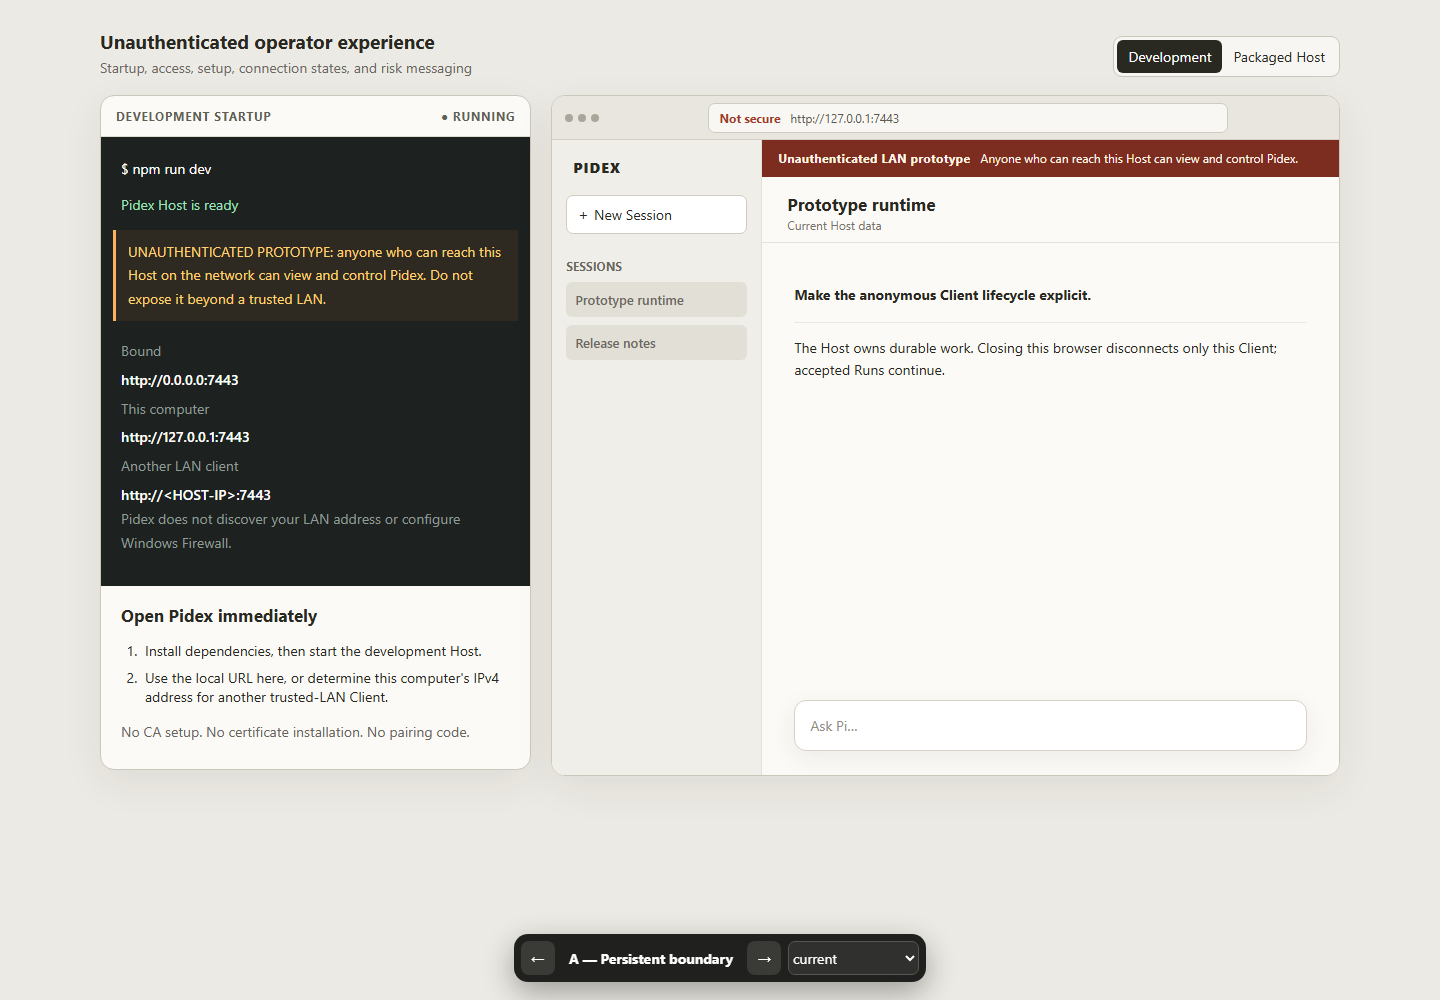
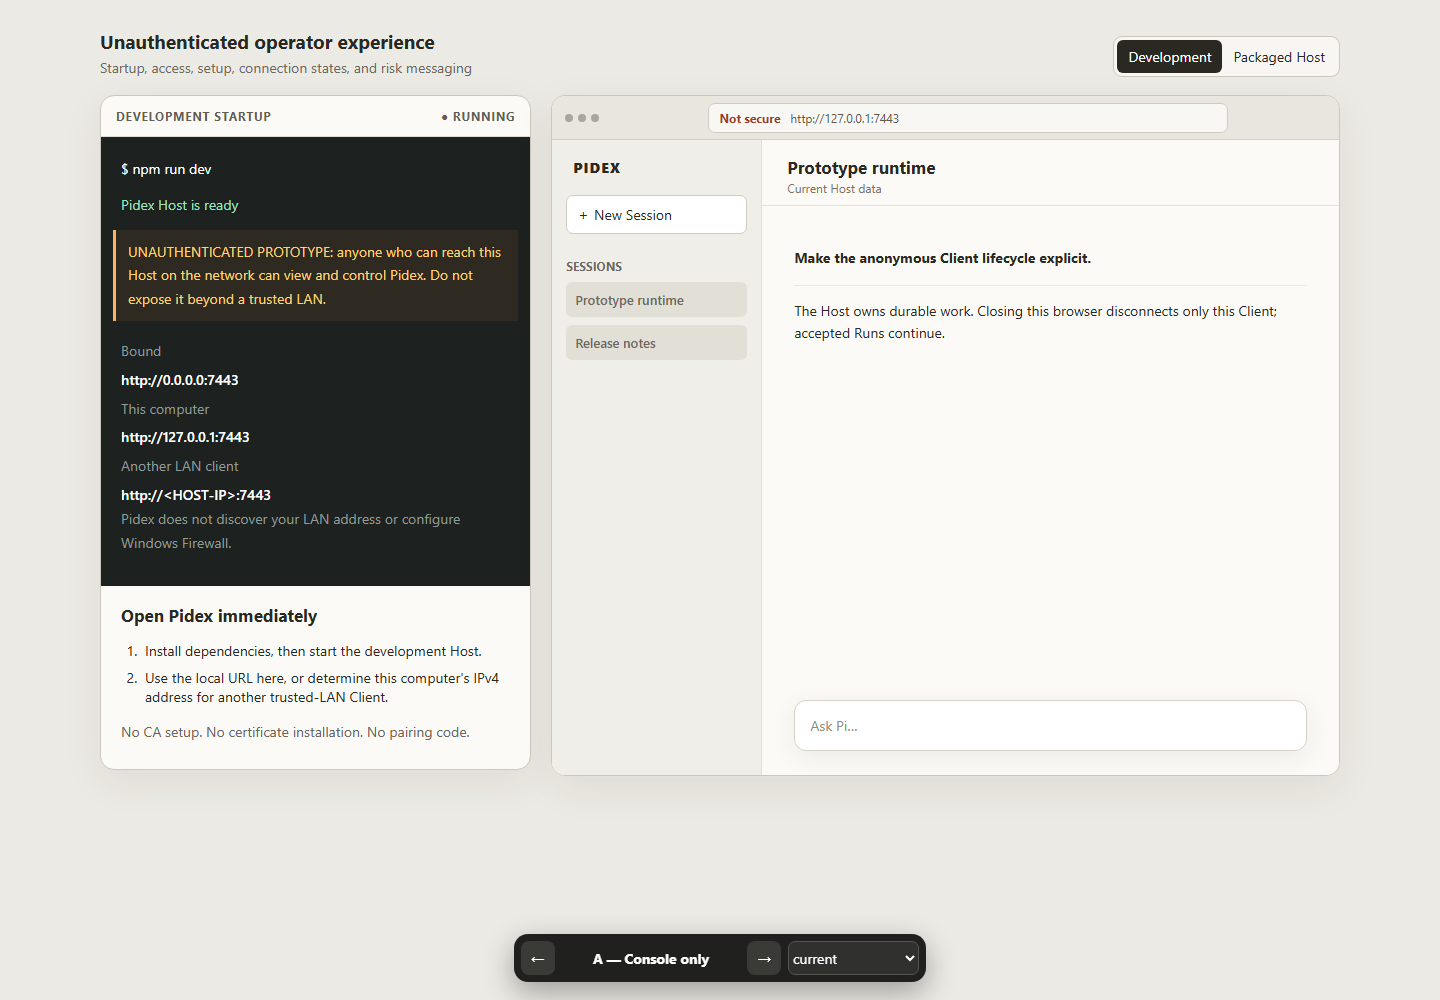
Select console-only operator warning

Changed region(s): [[0.5312, 0.124, 0.9375, 0.372], [0.4062, 0.93, 0.5, 0.961]]

diff --git a/.scratch/pidex-product-and-architecture/prototypes/unauthenticated-operator-experience/index.html b/.scratch/pidex-product-and-architecture/prototypes/unauthenticated-operator-experience/index.html
@@ -127,7 +127,7 @@
   <script>
     const warning = "UNAUTHENTICATED PROTOTYPE: anyone who can reach this Host on the network can view and control Pidex. Do not expose it beyond a trusted LAN.";
     const variants = {
-      A: "Persistent boundary",
+      A: "Console only",
       B: "Operator launchpad",
       C: "Safety rail"
     };
@@ -184,8 +184,7 @@
     }
 
     function variantA(facts, state) {
-      const risk = `<div class="risk-strip"><strong>Unauthenticated LAN prototype</strong> Anyone who can reach this Host can view and control Pidex.</div>`;
-      return `<div class="stage">${terminalA(facts)}${browserShell(browserApp(state, risk), facts)}</div>`;
+      return `<div class="stage">${terminalA(facts)}${browserShell(browserApp(state, ""), facts)}</div>`;
     }
 
     function variantB(facts, state) {

diff --git a/.scratch/pidex-product-and-architecture/prototypes/unauthenticated-operator-experience/README.md b/.scratch/pidex-product-and-architecture/prototypes/unauthenticated-operator-experience/README.md
@@ -2,7 +2,7 @@
 
 Three read-only variants answer one question: how should startup output, access URLs, browser connection states, setup guidance, and visible risk messaging work when Pidex has no certificates, pairing, or Client authentication?
 
-- **A — Persistent boundary:** concise startup output and a permanent warning strip keep the risk visible without taking over the application.
+- **A — Console only (selected):** concise startup output carries the required warning; the browser opens directly with no persistent risk UI.
 - **B — Operator launchpad:** startup and first-open guidance emphasize choosing a local or LAN URL, with a compact persistent risk marker afterward.
 - **C — Safety rail:** a fixed risk rail makes the network boundary part of the application chrome and pairs each access path with its consequence.
 
@@ -18,8 +18,12 @@ Then open <http://localhost:4175/?variant=A&state=current&mode=development>.
 
 This is a throwaway prototype. It starts no Host, discovers no LAN address, changes no firewall rule, and performs no network mutation.
 
+## Verdict
+
+Select A as the lowest-work direction, with the warning confined to Host startup output. Do not add a browser warning strip, risk chip, safety rail, acknowledgement, or first-open interstitial. B and C remain rejected comparison sources.
+
 ## Captured comparisons
 
-- [A — Persistent boundary, current Development Host](screenshots/A-current.png)
+- [A — Console only, current Development Host](screenshots/A-current.png)
 - [B — Operator launchpad, stale Packaged Host](screenshots/B-stale.png)
 - [C — Safety rail, update-required Development Host](screenshots/C-update.png)
